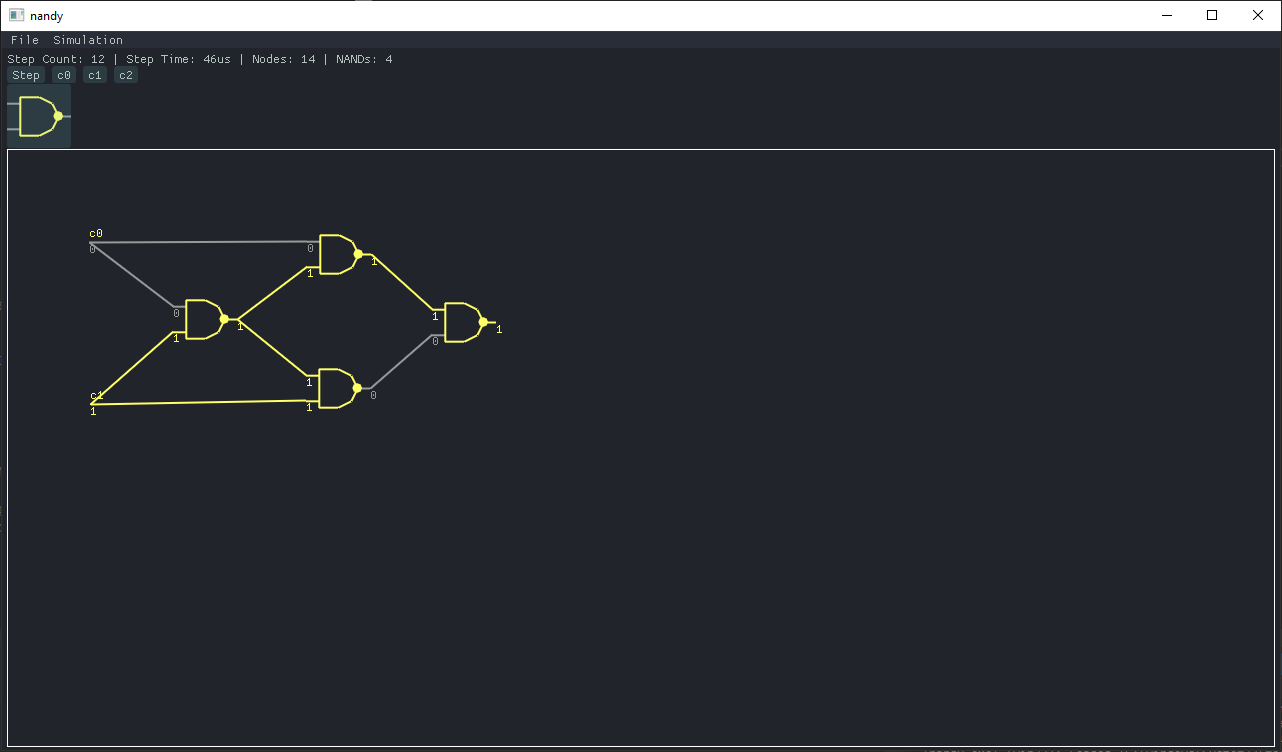
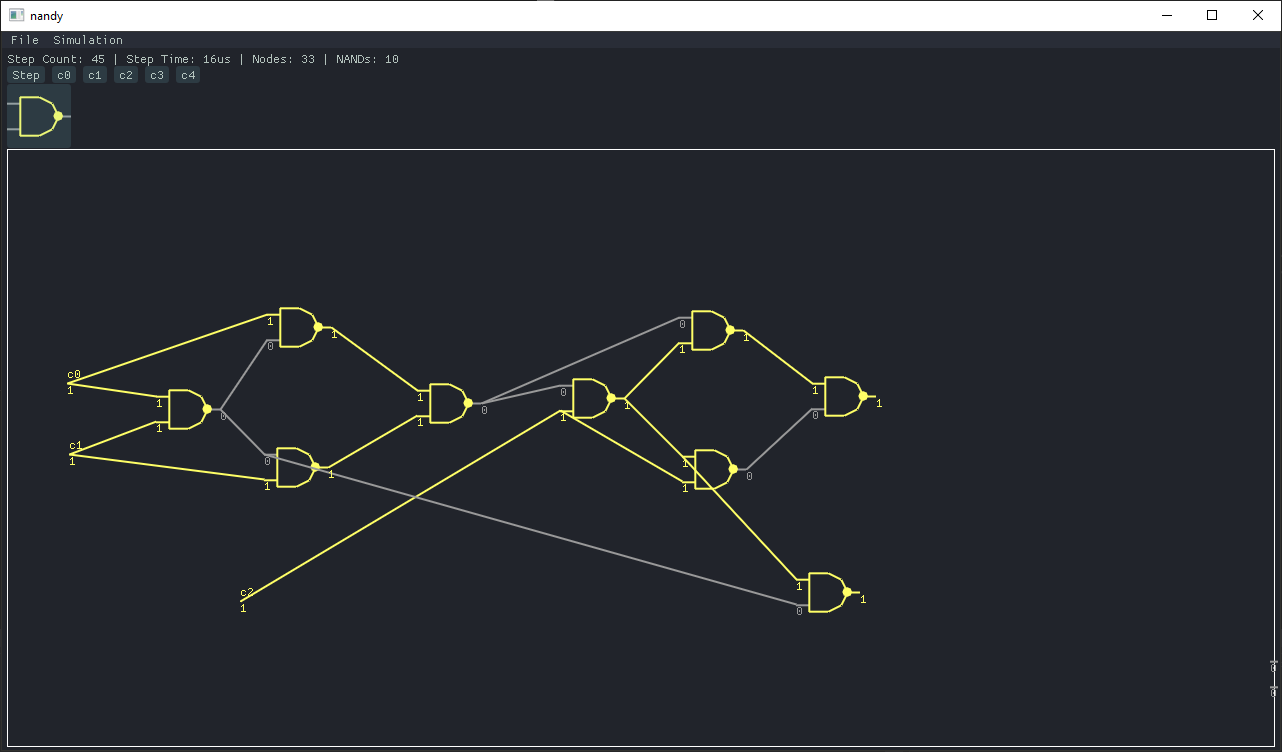
Full-adder

diff --git a/src/simulation.h b/src/simulation.h
@@ -25,7 +25,6 @@ public:
 
     std::shared_ptr<nand_t> GetNAND(uint32_t id)
     {
-        
         return nands[id];
     }
 
@@ -59,6 +58,7 @@ public:
             j["nands"][nand->id]["id"] = nand->id;
             j["nands"][nand->id]["x"] = nand->x;
             j["nands"][nand->id]["y"] = nand->y;
+            j["nands"][nand->id]["is_nand"] = nand->is_nand;
 
             j["nands"][nand->id]["inputa_id"] = nand->inputa_id;
             j["nands"][nand->id]["inputb_id"] = nand->inputb_id;
@@ -70,9 +70,13 @@ public:
             j["nodes"][node->id]["id"] = node->id;
             j["nodes"][node->id]["x"] = node->x;
             j["nodes"][node->id]["y"] = node->y;
+            j["nodes"][node->id]["is_nand"] = node->is_nand;
 
             j["nodes"][node->id]["active"] = node->active;
             j["nodes"][node->id]["driving_ids"] = node->driving_ids;
+
+            j["nodes"][node->id]["attached_nand"] = node->attached_nand;
+            j["nodes"][node->id]["nand_id"] = node->nand_id;
         }
 
         for (auto& entry : nand_lookup)
@@ -107,45 +111,62 @@ public:
         nand_lookup.clear();
         node_lookup.clear();
 
-        for (auto& entry : j["nands"])
+        if (j.find("nands") != j.end())
         {
-            auto nand = std::make_shared<nand_t>();
-            nand->id = entry["id"];
-            nand->x = entry["x"];
-            nand->y = entry["y"];
+            for (auto& entry : j["nands"])
+            {
+                auto nand = std::make_shared<nand_t>();
+                nand->id = entry["id"];
+                nand->x = entry["x"];
+                nand->y = entry["y"];
+                nand->is_nand = entry["is_nand"];
 
-            nand->inputa_id = entry["inputa_id"];
-            nand->inputb_id = entry["inputb_id"];
-            nand->output_id = entry["output_id"];
+                nand->inputa_id = entry["inputa_id"];
+                nand->inputb_id = entry["inputb_id"];
+                nand->output_id = entry["output_id"];
 
-            nands.emplace_back(nand);
+                nands.emplace_back(nand);
+            }
         }
 
-        for (auto& entry : j["nodes"])
+        if (j.find("nodes") != j.end())
         {
-            auto node = std::make_shared<node_t>();
-            node->id = entry["id"];
-            node->x = entry["x"];
-            node->y = entry["y"];
+            for (auto& entry : j["nodes"])
+            {
+                auto node = std::make_shared<node_t>();
+                node->id = entry["id"];
+                node->x = entry["x"];
+                node->y = entry["y"];
+                node->is_nand = entry["is_nand"];
 
-            node->active = entry["active"];
-            node->driving_ids = entry["driving_ids"].get<std::vector<uint32_t>>();
+                node->active = entry["active"];
+                node->driving_ids = entry["driving_ids"].get<std::vector<uint32_t>>();
 
-            nodes.emplace_back(node);
+                node->attached_nand = entry["attached_nand"];
+                node->nand_id = entry["nand_id"];
+
+                nodes.emplace_back(node);
+            }
         }
 
-        for (auto& entry : j["nand_lookup"].items())
+        if (j.find("nand_lookup") != j.end())
         {
-            auto str = entry.key();
-            auto id = entry.value();
-            nand_lookup[str] = GetNAND(id);
+            for (auto& entry : j["nand_lookup"].items())
+            {
+                auto str = entry.key();
+                auto id = entry.value();
+                nand_lookup[str] = GetNAND(id);
+            }
         }
 
-        for (auto& entry : j["node_lookup"].items())
+        if (j.find("node_lookup") != j.end())
         {
-            auto str = entry.key();
-            auto id = entry.value();
-            node_lookup[str] = GetNode(id);
+            for (auto& entry : j["node_lookup"].items())
+            {
+                auto str = entry.key();
+                auto id = entry.value();
+                node_lookup[str] = GetNode(id);
+            }
         }
     }
 

diff --git a/src/window.cpp b/src/window.cpp
@@ -129,6 +129,8 @@ void Window::Frame_Draw(Simulation& sim)
         define_c_button("c0");
         define_c_button("c1");
         define_c_button("c2");
+        define_c_button("c3");
+        define_c_button("c4");
 
         // TODO: Extract this stuff somewhere else
         static float sz = 64.0f;
@@ -212,6 +214,10 @@ void Window::Frame_Draw(Simulation& sim)
             {
                 draw_list->AddRect(ImVec2(nand->x, nand->y), ImVec2(nand->x + 64.0f, nand->y + 64.0f), yellow);
                 draw_list->AddText(nullptr, 0.0f, ImVec2(nand->x + 64.0f, nand->y + 64.0f), yellow, std::to_string(nand->id).c_str());
+
+                if (ImGui::IsMouseClicked(ImGuiMouseButton_Right))
+                {
+                }
             }
 
             if (ImGui::IsItemActive() && ImGui::IsMouseDragging(ImGuiMouseButton_Left))
@@ -255,6 +261,11 @@ void Window::Frame_Draw(Simulation& sim)
             {
                 draw_list->AddRect(ImVec2(node->x - 16.0f, node->y - 16.0f), ImVec2(node->x + 16.0f, node->y + 16.0f), yellow);
                 draw_list->AddText(nullptr, 0.0f, ImVec2(node->x + 16.0f, node->y + 16.0f), yellow, std::to_string(node->id).c_str());
+
+                if (ImGui::IsMouseClicked(ImGuiMouseButton_Right))
+                {
+                    node->driving_ids.clear();
+                }
             }
 
             if (ImGui::IsMouseHoveringRect(bounds_ul, bounds_lr) && ImGui::IsMouseDragging(ImGuiMouseButton_Right) && !node->attached_nand)
@@ -312,7 +323,6 @@ void Window::Frame_Toolbar(Simulation& sim)
     {
         if (ImGui::BeginMenu("File"))
         {
-            ImGui::Separator();
             if (ImGui::MenuItem("Exit"))
             {
                 done = true;
@@ -322,10 +332,18 @@ void Window::Frame_Toolbar(Simulation& sim)
 
         if (ImGui::BeginMenu("Simulation"))
         {
-            ImGui::Separator();
             if (ImGui::MenuItem("Step"))
             {
                 sim.Step();
+            }
+            if (ImGui::MenuItem("Clear"))
+            {
+                sim.step_count = 0;
+                sim.step_time = 0;
+                sim.nands.clear();
+                sim.nodes.clear();
+                sim.nand_lookup.clear();
+                sim.node_lookup.clear();
             }
             ImGui::EndMenu();
         }

diff --git a/src/simulation.cpp b/src/simulation.cpp
@@ -2,19 +2,20 @@
 
 Simulation::Simulation()
 {
+    LoadFromJSONFile("dump.json");
     Step();
 }
 
 void Simulation::Step()
 {
     // TODO: This is accurate, but inefficient
-    for (auto& node : nodes)
+    for (auto& entry : node_lookup)
     {
-        q.push(node);
+        q.push(entry.second);
     }
 
     auto start_time = std::chrono::high_resolution_clock::now();
-    for (size_t i = 0; i < 4; i++) // TODO: Reduce this to as small as possible
+    for (size_t i = 0; i < 1; i++) // TODO: Reduce this to as small as possible
     {
         while (!q.empty())
         {
@@ -23,7 +24,7 @@ void Simulation::Step()
 
             if (component->is_nand)
             {
-                auto nand = std::static_pointer_cast<nand_t>(component);
+                auto nand = GetNAND(component->id);
 
                 auto inputa = nodes[nand->inputa_id];
                 auto inputb = nodes[nand->inputb_id];
@@ -39,15 +40,18 @@ void Simulation::Step()
             }
             else // is_node
             {
-                auto node = std::static_pointer_cast<node_t>(component);
+                auto node = GetNode(component->id);
                 for (auto& connected_node_id : node->driving_ids)
                 {
                     auto connected_node = nodes[connected_node_id];
-                    connected_node->active = node->active;
-                    q.push(connected_node);
+                    if (node->active != connected_node->active)
+                    {
+                        connected_node->active = node->active;
+                        q.push(connected_node);
+                    }
                 }
 
-                if (node->attached_nand)
+                if (node->attached_nand && node->id != nands[node->nand_id]->output_id)
                 {
                     auto connected_nand = nands[node->nand_id];
                     q.push(connected_nand);

diff --git a/src/definitions.h b/src/definitions.h
@@ -25,7 +25,7 @@ struct nand_t : public component_t
 struct node_t : public component_t
 {
     bool active = false;
+    std::vector<uint32_t> driving_ids;
     bool attached_nand = false;
     uint32_t nand_id;
-    std::vector<uint32_t> driving_ids;
 };
